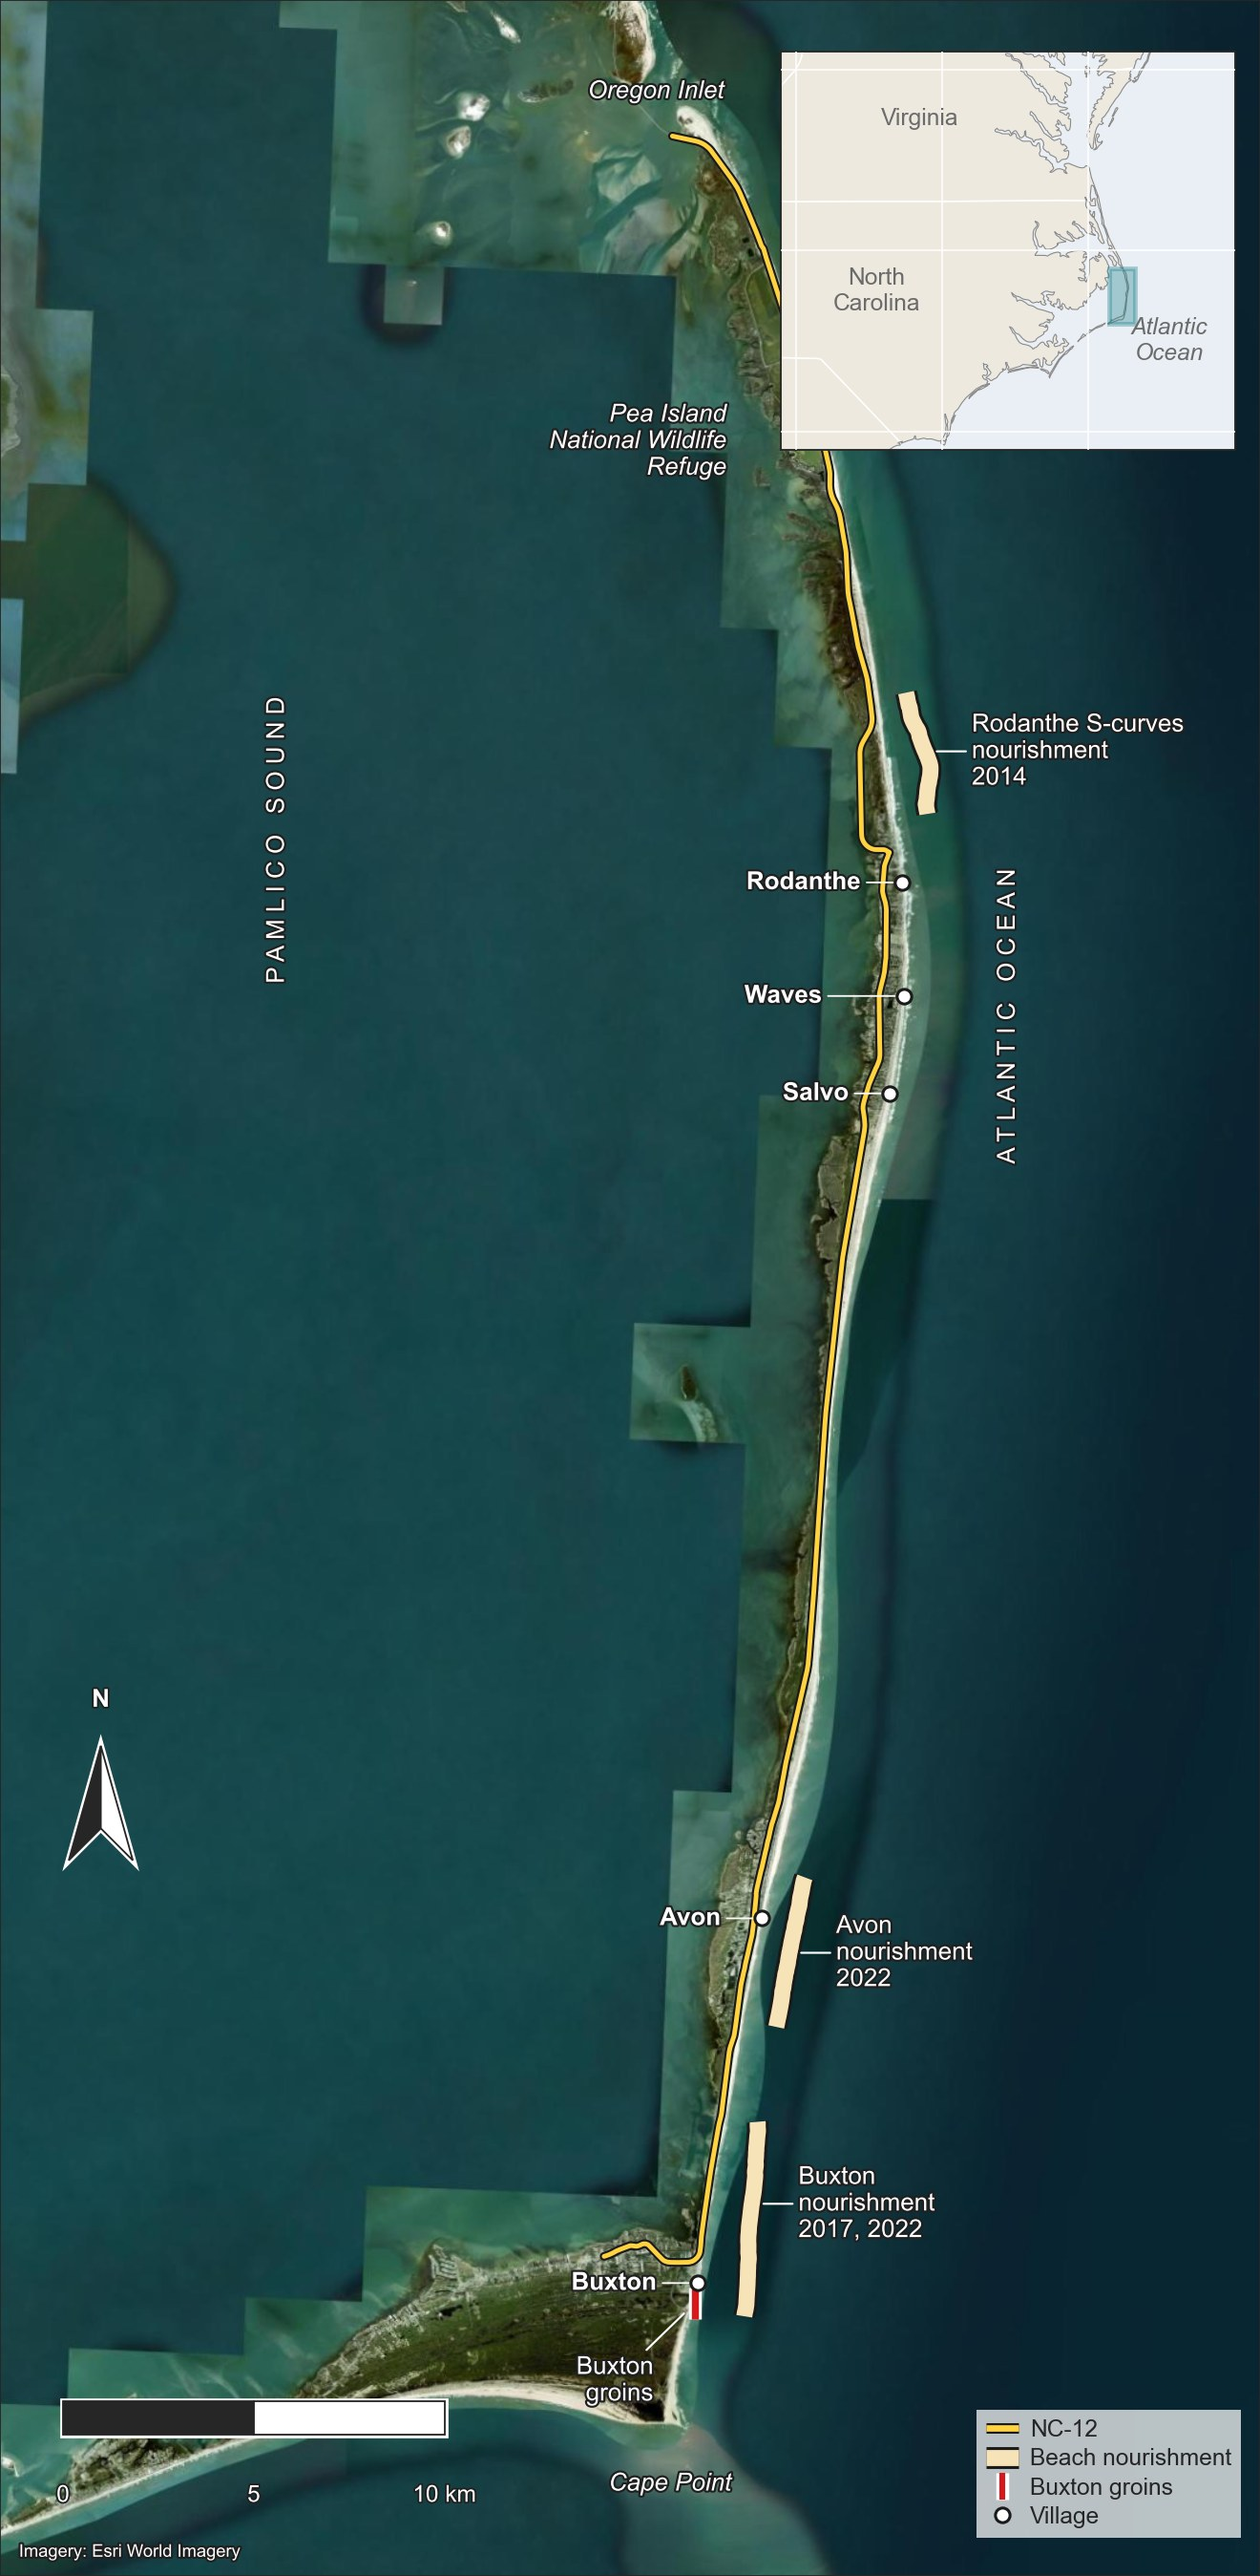
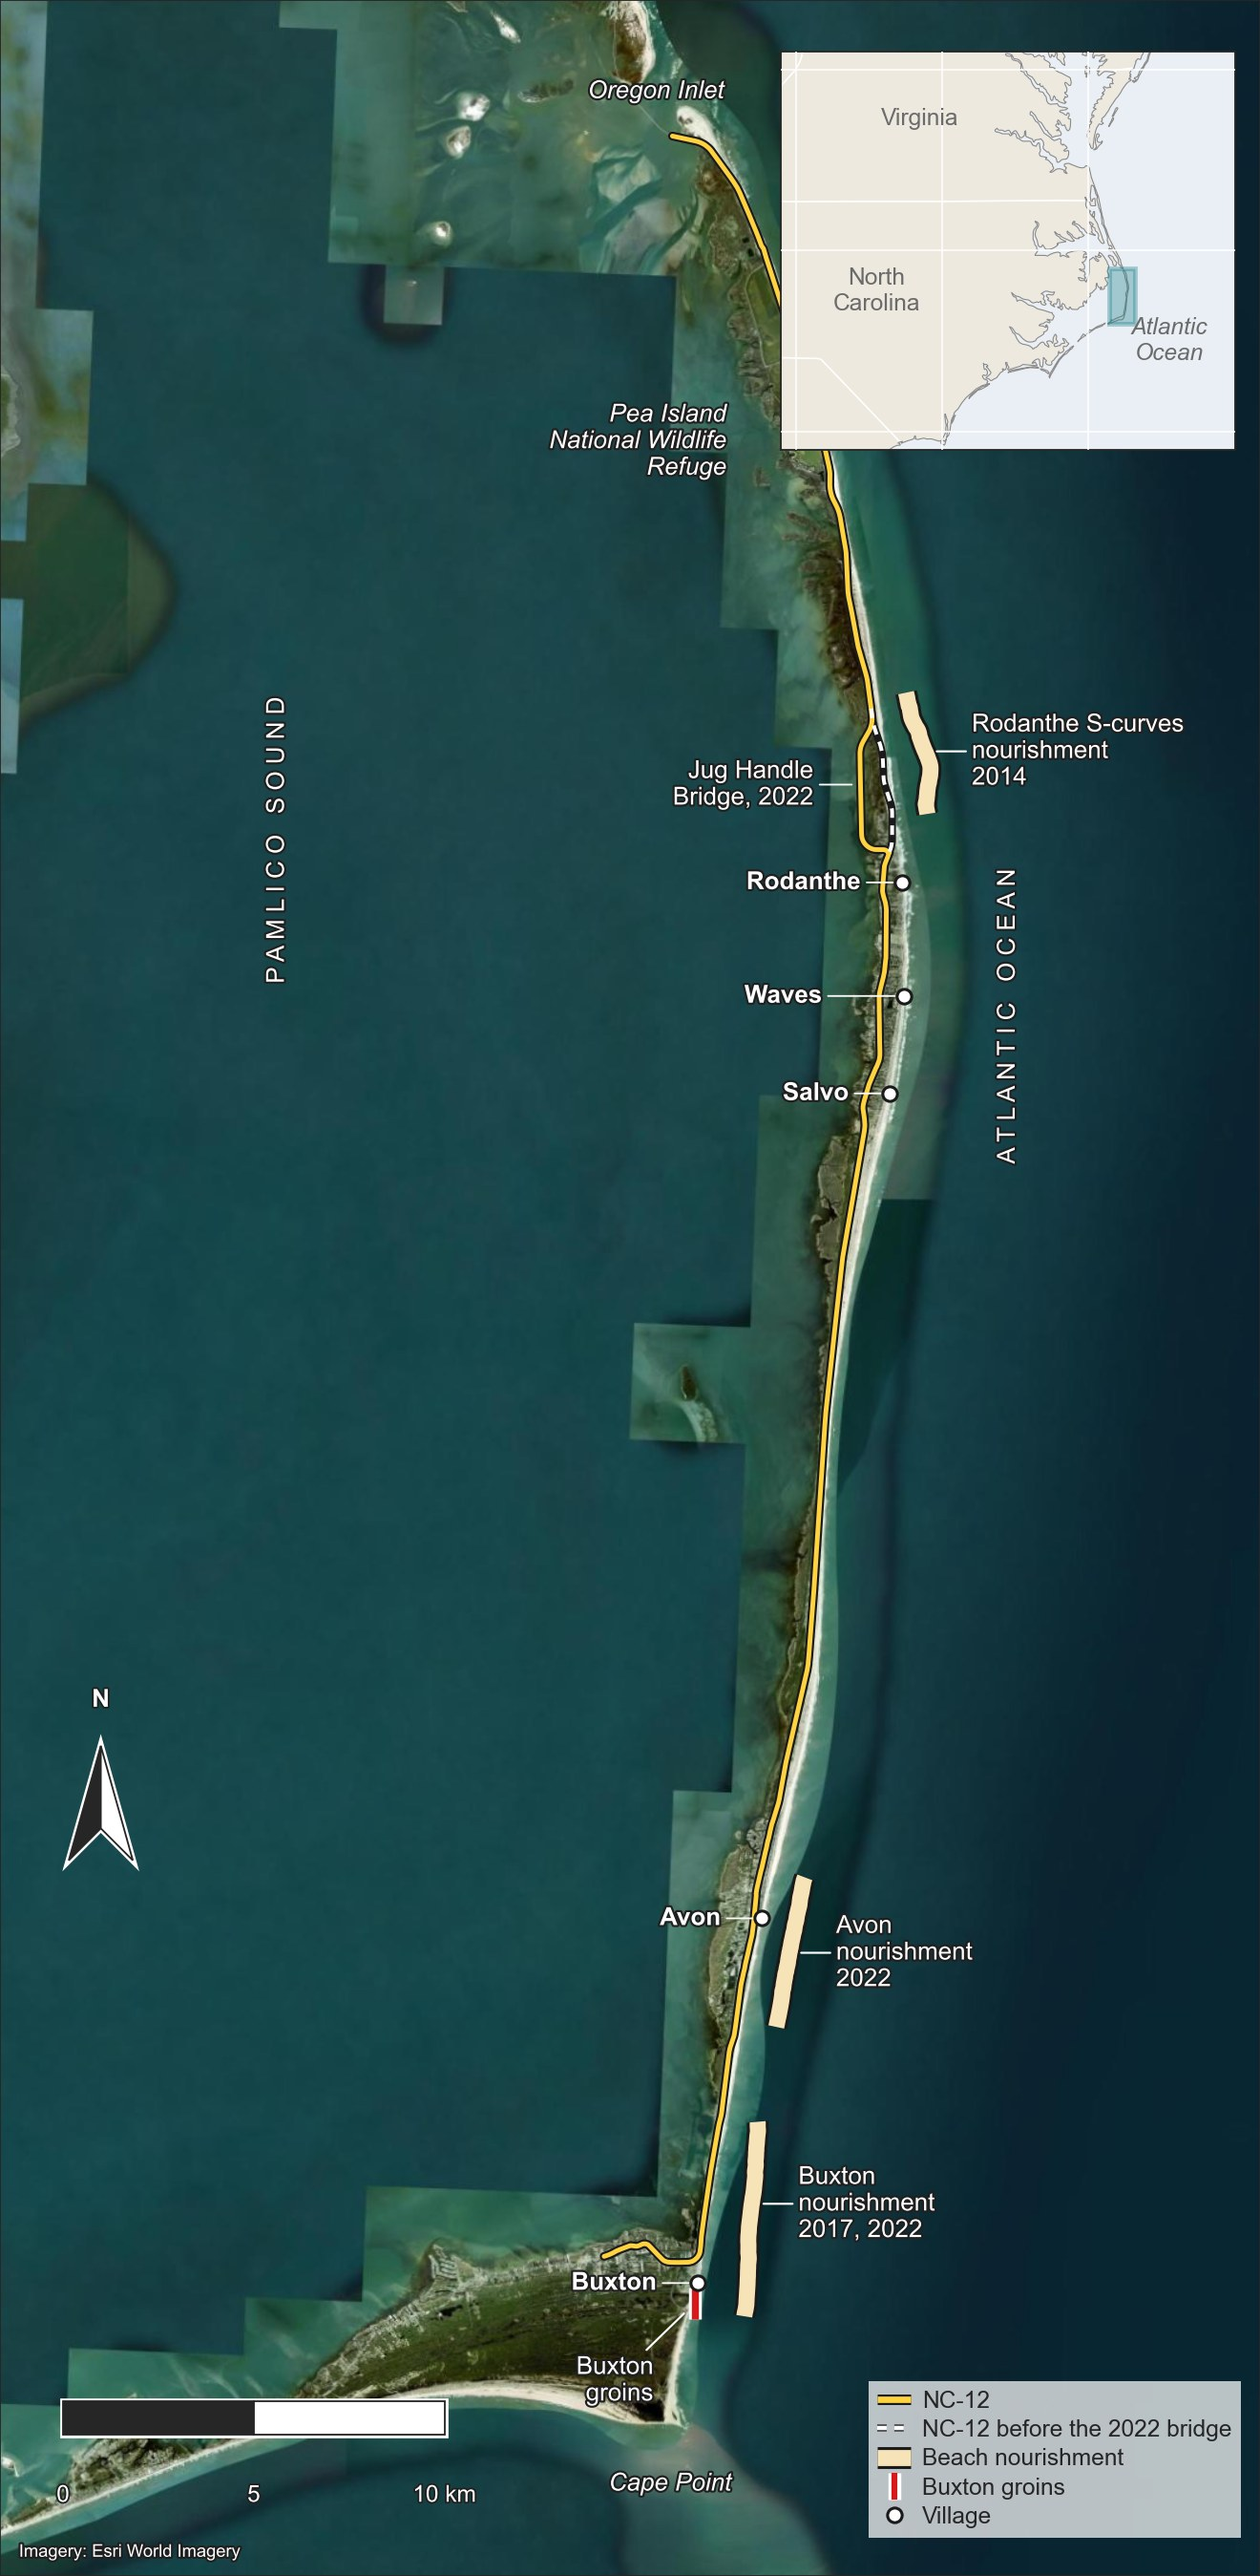
Show the Jug Handle Bridge and the beach road it replaced on the map
The road line already followed the bridge, so the map now labels it
and draws the old beach road at the S-curves as a dashed line.

Changed region(s): [[0.6833, 0.9032, 0.9939, 0.9967], [0.528, 0.2803, 0.6523, 0.3115], [0.6833, 0.2803, 0.7144, 0.3426]]

diff --git a/tools/hatteras_stakeholder_map.py b/tools/hatteras_stakeholder_map.py
@@ -4,8 +4,9 @@ Study-area map for the Hatteras stakeholder pages, in the house map style.
     python tools/hatteras_stakeholder_map.py
 
 Hatteras Island from Cape Point to Oregon Inlet on Esri World Imagery, north up, UTM 18N, with the
-villages, NC-12 (current alignment), the beach nourishment reaches the model is forced with, and the
-Buxton groins; a locator inset of the Mid-Atlantic coast. Reaches and labels are placed on the CoastSat
+villages, NC-12 today (over the 2022 Jug Handle Bridge) with the 2008 beach road it bypassed dashed, the
+beach nourishment reaches the model is forced with, and the Buxton groins; a locator inset of the
+Mid-Atlantic coast. Reaches and labels are placed on the CoastSat
 transects in assets/hatteras/data/shoreline_rates.json, so run hatteras_shoreline_data.py first.
 Writes assets/hatteras/img/study_area_map.jpg. Needs the CASCADE repo beside this one.
 
@@ -27,6 +28,8 @@ import numpy as np
 from matplotlib.lines import Line2D
 from matplotlib.patches import Rectangle
 from pyproj import Transformer
+from shapely.geometry import Point
+from shapely.ops import linemerge, substring
 from rasterio.warp import transform_bounds
 
 SITE = Path(__file__).resolve().parents[1]
@@ -39,6 +42,10 @@ from site_layer.hat_map_layers import NE_STATES  # noqa: E402
 
 RATES = SITE / "assets/hatteras/data/shoreline_rates.json"
 NC12 = CASCADE / "data/hatteras_init/4-mgmt-forcing/road_offset/raw_offset/current/nc12_current.geojson"
+NC12_2008 = CASCADE / "data/hatteras_init/4-mgmt-forcing/road_offset/raw_offset/2008/nc12_2008.geojson"
+# The Jug Handle Bridge: nc12_current follows it (within 3 m of OpenStreetMap, checked 2026-10-02);
+# the 2008 line still runs along the beach there. Ends of the bridge stretch on the current line:
+BRIDGE_ENDS_LL = [(-75.471925, 35.633187), (-75.467351, 35.598803)]
 OUT = SITE / "assets/hatteras/img/study_area_map.jpg"
 TILE_CACHE = CASCADE / "data/hatteras_init/map_elements/tile_cache"
 
@@ -121,14 +128,24 @@ def main() -> None:
     ax.set_yticks([])
     spines_for_image(ax)
 
-    # NC-12, current alignment (State Plane feet in the source)
-    road = gpd.read_file(NC12).to_crs(CRS)
-    for geom in road.geometry:
-        lines = getattr(geom, "geoms", [geom])
-        for ln in lines:
-            xs, ys = ln.xy
-            ax.plot(xs, ys, color="0.1", lw=3.0, solid_capstyle="round", zorder=4)
-            ax.plot(xs, ys, color=ROAD, lw=1.6, solid_capstyle="round", zorder=5)
+    # NC-12 today (State Plane feet in the source), which crosses the sound on the Jug Handle Bridge,
+    # and, dashed, the 2008 road it bypassed along the beach at the S-curves
+    road = linemerge(list(gpd.read_file(NC12).to_crs(CRS).geometry))
+    xs, ys = road.xy
+    ax.plot(xs, ys, color="0.1", lw=3.0, solid_capstyle="round", zorder=4)
+    ax.plot(xs, ys, color=ROAD, lw=1.6, solid_capstyle="round", zorder=5)
+    ends = [Point(to_utm(*ll)) for ll in BRIDGE_ENDS_LL]
+    old = linemerge(list(gpd.read_file(NC12_2008).to_crs(CRS).geometry))
+    a, b = sorted(old.project(p) for p in ends)
+    former = substring(old, a, b)
+    xs, ys = former.xy
+    ax.plot(xs, ys, color="0.1", lw=2.6, zorder=4)
+    ax.plot(xs, ys, color="white", lw=1.3, ls=(0, (2.5, 2)), zorder=5)
+    a, b = sorted(road.project(p) for p in ends)
+    mid = substring(road, a, b).interpolate(0.5, normalized=True)
+    ax.annotate("Jug Handle\nBridge, 2022", (mid.x, mid.y), xytext=(-16, 0), textcoords="offset points",
+                ha="right", va="center", **TEXT,
+                arrowprops=dict(arrowstyle="-", color="white", lw=0.6, shrinkA=0, shrinkB=3))
 
     # Nourishment reaches, offshore of the beach they cover, labelled to the east
     for n in data["nourishments"]:
@@ -171,6 +188,8 @@ def main() -> None:
 
     handles = [
         Line2D([], [], color=ROAD, lw=2.2, label="NC-12", path_effects=[mpl.patheffects.withStroke(linewidth=3.6, foreground="0.1")]),
+        Line2D([], [], color="white", lw=1.3, ls=(0, (2.5, 2)), label="NC-12 before the 2022 bridge",
+               path_effects=[mpl.patheffects.withStroke(linewidth=2.6, foreground="0.35")]),
         Line2D([], [], color=SAND, lw=5.5, label="Beach nourishment", path_effects=[mpl.patheffects.withStroke(linewidth=7.5, foreground="0.1")]),
         groin_handle(),
         Line2D([], [], marker="o", ls="none", ms=5, mfc="white", mec="0.1", label="Village"),
@@ -178,7 +197,8 @@ def main() -> None:
     ax.legend(handles=handles, loc="lower right", bbox_to_anchor=(0.985, 0.015), **MAP_LEGEND)
     scale_bar_km(ax, 10_000, x=0.05, y=0.055)
     north_dart(ax, (x0 + 0.08 * (x1 - x0), y0 + 0.30 * (y1 - y0)), arrow_m=3000)
-    ax.text(0.015, 0.006, "Imagery: Esri World Imagery", transform=ax.transAxes, ha="left", va="bottom",
+    ax.text(0.015, 0.006, "Imagery: Esri World Imagery",
+            transform=ax.transAxes, ha="left", va="bottom",
             fontsize=6, color="white", path_effects=HALO, zorder=12)
 
     inset = fig.add_axes([0.62, 0.70, 0.36, 0.28])

diff --git a/_pages/hatteras/index.md b/_pages/hatteras/index.md
@@ -55,9 +55,8 @@ Most of the island lies within Cape Hatteras National Seashore. NC-12, the only 
 
 <figure class="hat-studymap">
 <img src="{{ '/assets/hatteras/img/study_area_map.jpg' | relative_url }}" alt="Map of Hatteras Island from Cape Point to Oregon Inlet, showing the villages of Buxton, Avon, Salvo, Waves and Rodanthe, NC-12, the beach nourishment reaches at Buxton, Avon and the Rodanthe S-curves, and the Buxton groins" loading="lazy">
-<figcaption class="hat-caption">Hatteras Island from Cape Point to Oregon Inlet. Gold bars mark the beaches nourished at Buxton (2017 and 2022), Avon (2022) and the Rodanthe S-curves (2014).</figcaption>
+<figcaption class="hat-caption">Hatteras Island from Cape Point to Oregon Inlet. Gold bars mark the beaches nourished at Buxton (2017 and 2022), Avon (2022) and the Rodanthe S-curves (2014). Since 2022, NC-12 crosses Pamlico Sound on the Jug Handle Bridge; the dashed line is the beach road it replaced.</figcaption>
 </figure>
 
-{% include hatteras/todo.liquid text="The NC-12 line on this map is the pre-2022 alignment: add the Jug Handle Bridge." %}
 
 {% include hatteras/pager.liquid %}

diff --git a/HATTERAS_SITE.md b/HATTERAS_SITE.md
@@ -27,7 +27,7 @@ This file is excluded from the build.
 
 ## Figures
 
-- `assets/hatteras/img/study_area_map.jpg`, from `tools/hatteras_stakeholder_map.py`: north-up, Esri imagery, villages, NC-12, nourishment reaches (read from shoreline_rates.json), groins, and a locator. The NC-12 line is `nc12_current.geojson`, which predates the Jug Handle Bridge.
+- `assets/hatteras/img/study_area_map.jpg`, from `tools/hatteras_stakeholder_map.py`: north-up, Esri imagery, villages, NC-12, nourishment reaches (read from shoreline_rates.json), groins, and a locator. NC-12 is `nc12_current.geojson`, which already follows the Jug Handle Bridge (within 3 m of OpenStreetMap); the dashed beach road it bypassed is cut from `nc12_2008.geojson` between the bridge's ends.
 - `_includes/hatteras/cross_section.svg`, from `tools/hatteras_cross_section.py`: a schematic sound-to-ocean slice, inline so it takes the page font.
 
 ## Panels to build
